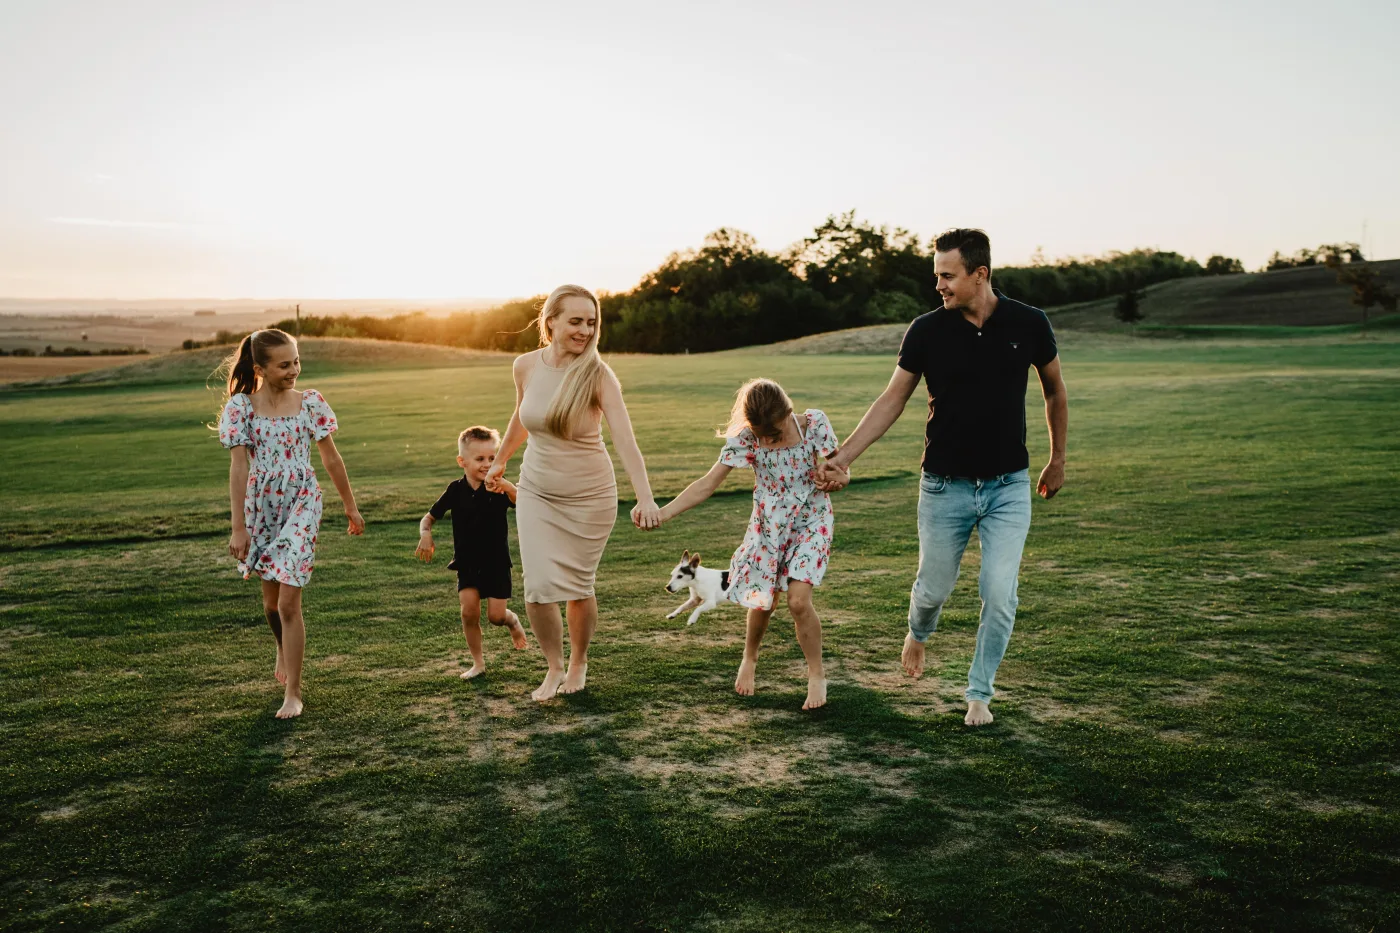
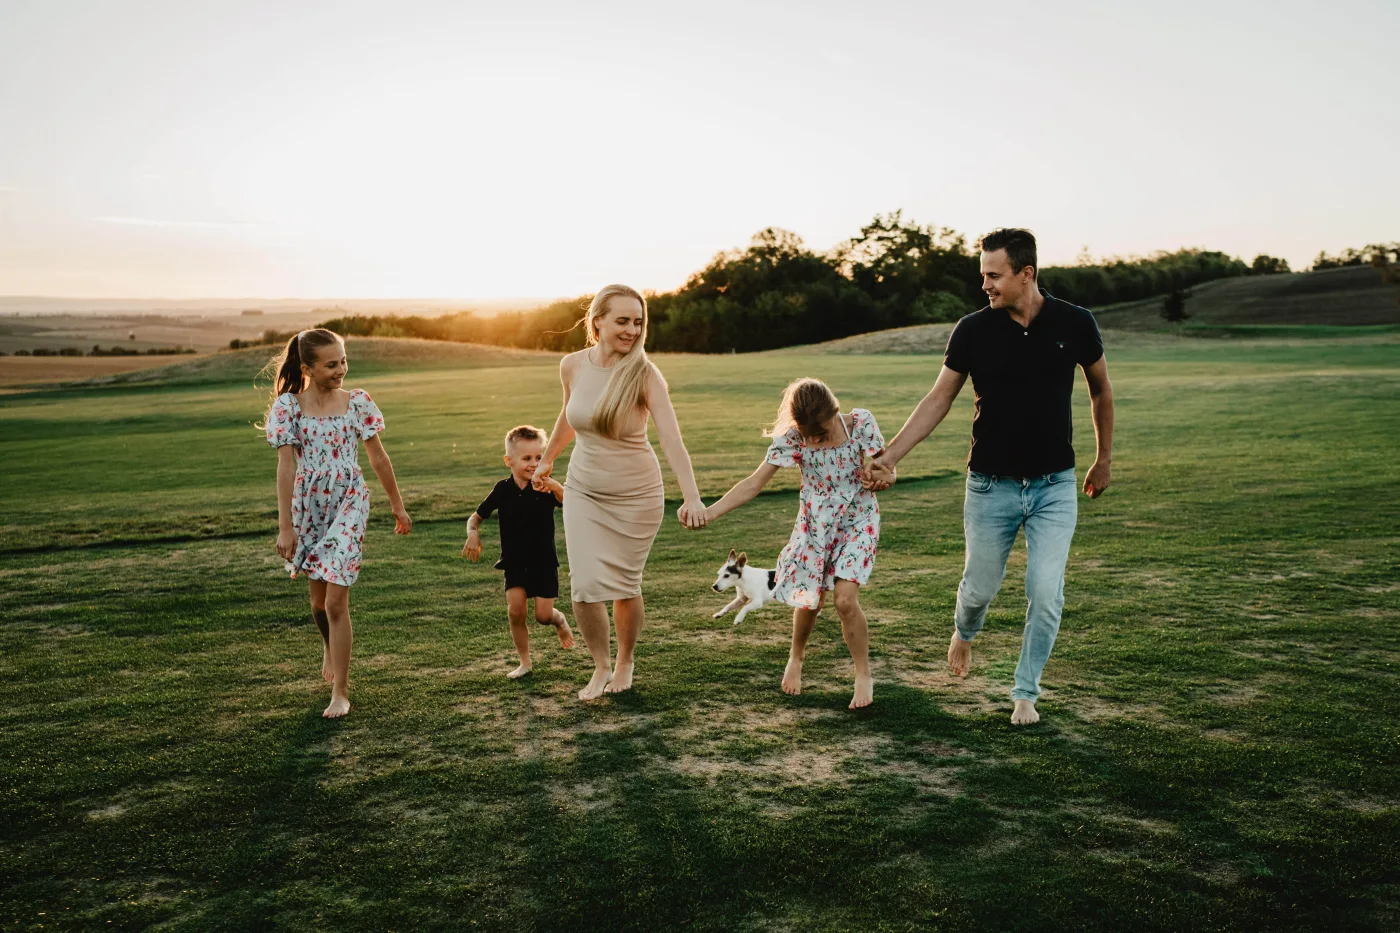
Vyměnit pravou fotku a přidat text pod proof-block sekci
- vylepšená verze fotky "dnes" (home-proof-photo-now.webp)
- přidán citát pod fotky/proofy: "Z malého světa se stal celý
  vesmír..." (.proof-quote)
- foto+proofy přesunuty do nového wrapperu .proof-block-row,
  aby citát mohl být samostatný řádek pod nimi na celou šířku
- vrácena standardní mezera před "Bojíte se..." (odstraněn dřívější
  padding-top:0 override, který byl na požádání přidán a teď měl
  být zase pryč, protože po přidání citátu už mezera nebyla přehnaná)

diff --git a/index.html b/index.html
@@ -26,7 +26,7 @@
 <link rel="preconnect" href="https://fonts.googleapis.com">
 <link rel="preconnect" href="https://fonts.gstatic.com" crossorigin>
 <link href="https://fonts.googleapis.com/css2?family=Archivo:wght@400;500;600;700;800&display=swap" rel="stylesheet">
-<link rel="stylesheet" href="css/style.css?v=320">
+<link rel="stylesheet" href="css/style.css?v=321">
 <!-- Calendly widget -->
 <link href="https://assets.calendly.com/assets/external/widget.css" rel="stylesheet">
 <script src="https://assets.calendly.com/assets/external/widget.js" type="text/javascript" async></script>
@@ -113,25 +113,28 @@
 </section>
 
 <section class="proof-block wrap" data-reveal>
-  <div class="proof-photo-col">
-    <div class="proof-photo">
-      <img src="images/home-proof-photo-then.webp" width="1400" height="933" alt="Rodina, kterou fotím už 12 let - tehdy" loading="lazy">
+  <div class="proof-block-row">
+    <div class="proof-photo-col">
+      <div class="proof-photo">
+        <img src="images/home-proof-photo-then.webp" width="1400" height="933" alt="Rodina, kterou fotím už 12 let - tehdy" loading="lazy">
+      </div>
+      <p class="proof-photo-caption">Tehdy, s prvním miminkem</p>
     </div>
-    <p class="proof-photo-caption">Tehdy, s prvním miminkem</p>
-  </div>
-  <div class="proof-stats-col">
-    <ul class="proof-stats">
-      <li><strong>12 let</strong><span>zkušeností s fotografií</span></li>
-      <li><strong>900+</strong><span>rodinných příběhů</span></li>
-      <li><strong>0 pozování</strong><span>nemusíte se přetvařovat</span></li>
-    </ul>
-  </div>
-  <div class="proof-photo-col">
-    <div class="proof-photo proof-photo-now">
-      <img src="images/home-proof-photo-now.webp" width="1400" height="933" alt="Ta samá rodina - dnes" loading="lazy">
+    <div class="proof-stats-col">
+      <ul class="proof-stats">
+        <li><strong>12 let</strong><span>zkušeností s fotografií</span></li>
+        <li><strong>900+</strong><span>rodinných příběhů</span></li>
+        <li><strong>0 pozování</strong><span>nemusíte se přetvařovat</span></li>
+      </ul>
     </div>
-    <p class="proof-photo-caption">Dnes, o tři děti později</p>
+    <div class="proof-photo-col">
+      <div class="proof-photo proof-photo-now">
+        <img src="images/home-proof-photo-now.webp" width="1400" height="933" alt="Ta samá rodina - dnes" loading="lazy">
+      </div>
+      <p class="proof-photo-caption">Dnes, o tři děti později</p>
+    </div>
   </div>
+  <p class="proof-quote">Z malého světa se stal celý vesmír. A já jsem nesmírně vděčná za roli tichého pozorovatele, který jim ty vzpomínky celou dobu tiše uchovává.</p>
 </section>
 
 <section class="reassure-section wrap" data-reveal>

diff --git a/css/style.css b/css/style.css
@@ -180,15 +180,16 @@
   .proof-photo { width:100%; aspect-ratio:3/2; overflow:hidden; background: var(--ink); }
   .proof-photo img { width:100%; height:100%; object-fit:cover; }
   .proof-photo-caption { margin-top: var(--space-2); font-style:italic; font-size: var(--fs-body); color: var(--ink-body); text-align:center; }
-  .proof-stats { list-style:none; max-width:460px; }
+  .proof-stats { list-style:none; max-width:460px; margin:0; }
   .proof-stats li { display:flex; flex-direction:column; gap:4px; }
   .proof-stats li strong { font-size: var(--fs-display); font-weight:700; letter-spacing:-0.01em; color: var(--ink-heading); line-height:1.15; }
   .proof-stats li span { font-size: var(--fs-body); font-weight:400; color: var(--ink-body); }
   .proof-stats li + li { margin-top: var(--space-3); }
   .proof-teaser-link { display:inline-block; margin-top: var(--space-4); font-size: var(--fs-body); font-weight:400; text-decoration:underline; text-underline-offset:3px; color: var(--ink-body); }
   .hero-cta-row .proof-teaser-link { margin-top:0; align-self:center; }
+  .proof-quote { max-width:640px; margin: var(--space-6) auto 0; font-style:italic; font-size: var(--fs-heading); font-weight:500; line-height:1.5; color: var(--ink-heading); text-align:center; }
   @media (min-width:901px){
-    .proof-block { display:flex; align-items:center; justify-content:space-between; gap: var(--space-6); }
+    .proof-block-row { display:flex; align-items:center; justify-content:space-between; gap: var(--space-6); }
     .proof-photo-col { max-width:none; flex:0 1 42%; margin-bottom:0; }
     .proof-stats-col { flex:0 0 auto; display:flex; flex-direction:column; align-items:center; }
     .proof-stats { max-width:none; width:fit-content; text-align:left; }
@@ -196,7 +197,6 @@
 
   /* ---------- Reassurance block ("Bojíte se, že děti nebudou spolupracovat?") ---------- */
   .reassure-section { padding: var(--space-10) 0 50px; text-align:center; }
-  .proof-block + .reassure-section { padding-top: 0; }
   @media (max-width:900px){ .reassure-section { padding-top: var(--space-6); } }
   .reassure-narrow { max-width:640px; margin:0 auto; text-align:left; }
   .reassure-photo { width:min(50%, 230px); aspect-ratio:2/3; overflow:hidden; margin: 0 0 var(--space-4) auto; }

diff --git a/cenik.html b/cenik.html
@@ -25,7 +25,7 @@
 <link rel="preconnect" href="https://fonts.googleapis.com">
 <link rel="preconnect" href="https://fonts.gstatic.com" crossorigin>
 <link href="https://fonts.googleapis.com/css2?family=Archivo:wght@400;500;600;700;800&display=swap" rel="stylesheet">
-<link rel="stylesheet" href="css/style.css?v=320">
+<link rel="stylesheet" href="css/style.css?v=321">
 <!-- Calendly widget -->
 <link href="https://assets.calendly.com/assets/external/widget.css" rel="stylesheet">
 <script src="https://assets.calendly.com/assets/external/widget.js" type="text/javascript" async></script>

diff --git a/galerie-detsky-portret.html b/galerie-detsky-portret.html
@@ -25,7 +25,7 @@
 <link rel="preconnect" href="https://fonts.googleapis.com">
 <link rel="preconnect" href="https://fonts.gstatic.com" crossorigin>
 <link href="https://fonts.googleapis.com/css2?family=Archivo:wght@400;500;600;700;800&display=swap" rel="stylesheet">
-<link rel="stylesheet" href="css/style.css?v=320">
+<link rel="stylesheet" href="css/style.css?v=321">
 <!-- Calendly widget -->
 <link href="https://assets.calendly.com/assets/external/widget.css" rel="stylesheet">
 <script src="https://assets.calendly.com/assets/external/widget.js" type="text/javascript" async></script>

diff --git a/galerie-rodinna-fotografie.html b/galerie-rodinna-fotografie.html
@@ -25,7 +25,7 @@
 <link rel="preconnect" href="https://fonts.googleapis.com">
 <link rel="preconnect" href="https://fonts.gstatic.com" crossorigin>
 <link href="https://fonts.googleapis.com/css2?family=Archivo:wght@400;500;600;700;800&display=swap" rel="stylesheet">
-<link rel="stylesheet" href="css/style.css?v=320">
+<link rel="stylesheet" href="css/style.css?v=321">
 <!-- Calendly widget -->
 <link href="https://assets.calendly.com/assets/external/widget.css" rel="stylesheet">
 <script src="https://assets.calendly.com/assets/external/widget.js" type="text/javascript" async></script>

diff --git a/galerie-video-pribeh.html b/galerie-video-pribeh.html
@@ -25,7 +25,7 @@
 <link rel="preconnect" href="https://fonts.googleapis.com">
 <link rel="preconnect" href="https://fonts.gstatic.com" crossorigin>
 <link href="https://fonts.googleapis.com/css2?family=Archivo:wght@400;500;600;700;800&display=swap" rel="stylesheet">
-<link rel="stylesheet" href="css/style.css?v=320">
+<link rel="stylesheet" href="css/style.css?v=321">
 <!-- Calendly widget -->
 <link href="https://assets.calendly.com/assets/external/widget.css" rel="stylesheet">
 <script src="https://assets.calendly.com/assets/external/widget.js" type="text/javascript" async></script>

diff --git a/kontakt.html b/kontakt.html
@@ -25,7 +25,7 @@
 <link rel="preconnect" href="https://fonts.googleapis.com">
 <link rel="preconnect" href="https://fonts.gstatic.com" crossorigin>
 <link href="https://fonts.googleapis.com/css2?family=Archivo:wght@400;500;600;700;800&display=swap" rel="stylesheet">
-<link rel="stylesheet" href="css/style.css?v=320">
+<link rel="stylesheet" href="css/style.css?v=321">
 <!-- Calendly widget -->
 <link href="https://assets.calendly.com/assets/external/widget.css" rel="stylesheet">
 <script src="https://assets.calendly.com/assets/external/widget.js" type="text/javascript" async></script>

diff --git a/o-mne.html b/o-mne.html
@@ -25,7 +25,7 @@
 <link rel="preconnect" href="https://fonts.googleapis.com">
 <link rel="preconnect" href="https://fonts.gstatic.com" crossorigin>
 <link href="https://fonts.googleapis.com/css2?family=Archivo:wght@400;500;600;700;800&display=swap" rel="stylesheet">
-<link rel="stylesheet" href="css/style.css?v=320">
+<link rel="stylesheet" href="css/style.css?v=321">
 <!-- Calendly widget -->
 <link href="https://assets.calendly.com/assets/external/widget.css" rel="stylesheet">
 <script src="https://assets.calendly.com/assets/external/widget.js" type="text/javascript" async></script>

diff --git a/obchodni-podminky.html b/obchodni-podminky.html
@@ -25,7 +25,7 @@
 <link rel="preconnect" href="https://fonts.googleapis.com">
 <link rel="preconnect" href="https://fonts.gstatic.com" crossorigin>
 <link href="https://fonts.googleapis.com/css2?family=Archivo:wght@400;500;600;700;800&display=swap" rel="stylesheet">
-<link rel="stylesheet" href="css/style.css?v=320">
+<link rel="stylesheet" href="css/style.css?v=321">
 <!-- Calendly widget -->
 <link href="https://assets.calendly.com/assets/external/widget.css" rel="stylesheet">
 <script src="https://assets.calendly.com/assets/external/widget.js" type="text/javascript" async></script>

diff --git a/ochrana-osobnich-udaju.html b/ochrana-osobnich-udaju.html
@@ -25,7 +25,7 @@
 <link rel="preconnect" href="https://fonts.googleapis.com">
 <link rel="preconnect" href="https://fonts.gstatic.com" crossorigin>
 <link href="https://fonts.googleapis.com/css2?family=Archivo:wght@400;500;600;700;800&display=swap" rel="stylesheet">
-<link rel="stylesheet" href="css/style.css?v=320">
+<link rel="stylesheet" href="css/style.css?v=321">
 <!-- Calendly widget -->
 <link href="https://assets.calendly.com/assets/external/widget.css" rel="stylesheet">
 <script src="https://assets.calendly.com/assets/external/widget.js" type="text/javascript" async></script>

diff --git a/portfolio.html b/portfolio.html
@@ -25,7 +25,7 @@
 <link rel="preconnect" href="https://fonts.googleapis.com">
 <link rel="preconnect" href="https://fonts.gstatic.com" crossorigin>
 <link href="https://fonts.googleapis.com/css2?family=Archivo:wght@400;500;600;700;800&display=swap" rel="stylesheet">
-<link rel="stylesheet" href="css/style.css?v=320">
+<link rel="stylesheet" href="css/style.css?v=321">
 <!-- Calendly widget -->
 <link href="https://assets.calendly.com/assets/external/widget.css" rel="stylesheet">
 <script src="https://assets.calendly.com/assets/external/widget.js" type="text/javascript" async></script>
